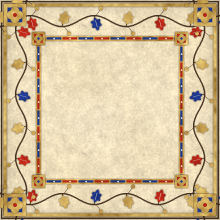
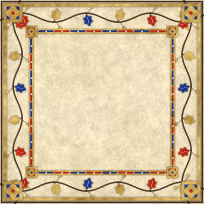
wip(ui1): illuminated windows, marginal-note tooltips, fix fallback font metrics (36->24 px lines)

diff --git a/tools/cent_ans_tools/ui_illumination.py b/tools/cent_ans_tools/ui_illumination.py
@@ -551,31 +551,31 @@ def panel(rng: np.random.Generator) -> tuple[Canvas, Piece]:
 
 def panel_illuminated(rng: np.random.Generator) -> tuple[Canvas, Piece]:
     """Large window: gold frame, ivy rinceau band, azure/gules bar, big corner bosses."""
-    margin, period = 46, 128
+    margin, period = 38, 128
     size = 2 * margin + period
     canvas = Canvas.vellum(size, size, margin, period, rng)
-    canvas.shade(edge_vignette(size, size, 22.0, 0.16))
+    canvas.shade(edge_vignette(size, size, 18.0, 0.16))
     outer = Mask(size, size)
     outer.frame(1, 1.4)
     inked(canvas, outer)
     band = Mask(size, size)
     band.frame(3.5, 3.0)
     gilded(canvas, band, rng)
-    vine_band(canvas, rng, margin, period, band_center=21.0, amplitude=5.5, leaf=6.4)
+    vine_band(canvas, rng, margin, period, band_center=17.5, amplitude=4.5, leaf=5.6)
     # Inner baguette on the four sides.
-    b0, b1 = 36.0, 41.0
+    b0, b1 = 29.0, 33.5
     bar_segments(canvas, rng, b0, b0, size - b0, b1, 16.0, True, margin)
     bar_segments(canvas, rng, b0, size - b1, size - b0, size - b0, 16.0, True, margin)
     bar_segments(canvas, rng, b0, b0, b1, size - b0, 16.0, False, margin)
     bar_segments(canvas, rng, size - b1, b0, size - b0, size - b0, 16.0, False, margin)
     for cx in (b0 + 2.5, size - b0 - 2.5):
         for cy in (b0 + 2.5, size - b0 - 2.5):
-            corner_boss(canvas, rng, (cx, cy), 13.0, GULES)
-    for cx in (15.0, size - 15.0):
-        for cy in (15.0, size - 15.0):
-            corner_boss(canvas, rng, (cx, cy), 22.0)
+            corner_boss(canvas, rng, (cx, cy), 11.0, GULES)
+    for cx in (13.0, size - 13.0):
+        for cy in (13.0, size - 13.0):
+            corner_boss(canvas, rng, (cx, cy), 19.0)
     return canvas, Piece(
-        "panel_illuminated", (margin, margin, margin, margin), (54, 50, 54, 52)
+        "panel_illuminated", (margin, margin, margin, margin), (44, 40, 44, 40)
     )
 
 

diff --git a/game/assets/third_party/fonts/noto/SOURCE.md b/game/assets/third_party/fonts/noto/SOURCE.md
@@ -14,3 +14,8 @@ Sous-ensembles faits avec `pyftsubset` (fontTools) :
   U+25A0–25FF (✉ ✦ ✧ ⌖ ⌛ ♔ ♛ ☠ ⚠ ★ ♨ ▲ ■ ▼ absents des deux autres).
 
 Déclarées en polices de repli (`fallbacks`) d'EB Garamond dans `scenes/ui/parchment_theme.tres`.
+
+Métriques verticales (lot UI1, 2026-09-25) : `hhea` et `OS/2` (ascender/descender, win et typo)
+ramenées à celles d'EB Garamond (1007 / -298 pour 1000 unités) avec fontTools. Sans cela, Godot
+prenait la hauteur maximale de la chaîne de repli : chaque ligne du thème faisait 36 px au lieu
+de 24 px (corps 17). Les glyphes ne sont pas modifiés.
